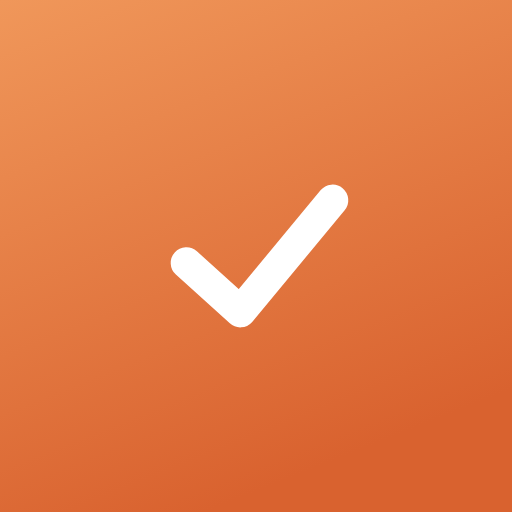
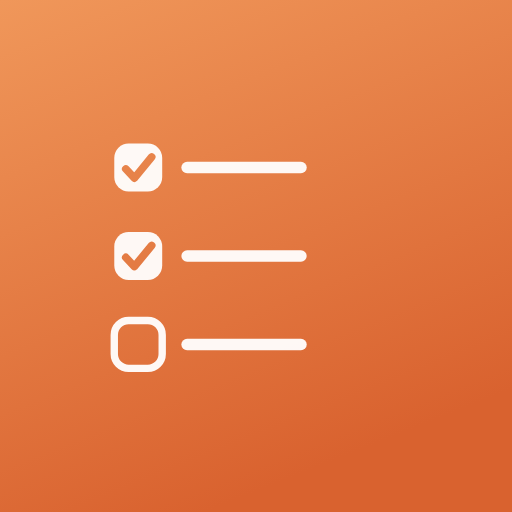
아이콘 재교체, "/날짜"·시간 자동 적용, 할 일 복사 기능 추가
1. 바로가기 아이콘을 체크마크 단독 디자인에서 체크리스트(할 일 3줄)
   모양으로 다시 교체
2. 할 일 추가/수정 모달에서 "/26.9.11", "14:00" 같은 명시적 표기는
   확인 없이 감지 즉시 자동으로 날짜/시간 필드에 반영되고 문구도
   자동으로 지워짐 (매주/내일처럼 애매할 수 있는 자연어 표기는 기존처럼
   클릭해서 적용하는 방식 유지)
3. 목록 안, 완료 탭 어디서든 할 일 항목 옆에 "복사" 버튼을 추가해서
   같은 할 일을 미완료 상태로 빠르게 복제 가능

Claude-Session: https://claude.ai/code/session_01N369WzuWM4VJZZyhSZKzDB

Changed region(s): [[0.1875, 0.3438, 0.6875, 0.75], [0.2188, 0.2812, 0.5938, 0.375]]

diff --git a/index.html b/index.html
@@ -713,6 +713,7 @@ function parseNaturalLanguageDate(raw) {
   let recurrence = null;
   let dueDate = null;
   let dueTime = null;
+  let explicitDate = false;
   let m;
 
   /* 시간 토큰: "14:00" 처럼 어디에 있든 시:분(24시간제)을 감지해요. */
@@ -721,22 +722,27 @@ function parseNaturalLanguageDate(raw) {
     text = text.replace(m[0], ' ');
   }
 
-  /* "/"로 시작하는 명시적 날짜 토큰: /오늘, /내일, /모레, /26.9.11, /9.11 */
+  /* "/"로 시작하는 명시적 날짜 토큰: /오늘, /내일, /모레, /26.9.11, /9.11
+     (시간 토큰과 마찬가지로 명시적인 표기이므로, 감지 즉시 자동 적용 + 자동 삭제 대상이에요.) */
   if ((m = text.match(/\s\/오늘\s/))) {
     dueDate = todayStr();
+    explicitDate = true;
     text = text.replace(m[0], ' ');
   } else if ((m = text.match(/\s\/내일\s/))) {
     const d = new Date(); d.setDate(d.getDate() + 1);
     dueDate = ymd(d);
+    explicitDate = true;
     text = text.replace(m[0], ' ');
   } else if ((m = text.match(/\s\/모레\s/))) {
     const d = new Date(); d.setDate(d.getDate() + 2);
     dueDate = ymd(d);
+    explicitDate = true;
     text = text.replace(m[0], ' ');
   } else if ((m = text.match(/\s\/(\d{2,4})\.(\d{1,2})\.(\d{1,2})\s/))) {
     let y = Number(m[1]);
     if (y < 100) y += 2000;
     dueDate = ymd(new Date(y, Number(m[2]) - 1, Number(m[3])));
+    explicitDate = true;
     text = text.replace(m[0], ' ');
   } else if ((m = text.match(/\s\/(\d{1,2})\.(\d{1,2})\s/))) {
     const mo = Number(m[1]), da = Number(m[2]);
@@ -744,6 +750,7 @@ function parseNaturalLanguageDate(raw) {
     let d = new Date(y0, mo - 1, da);
     if (ymd(d) < todayStr()) d = new Date(y0 + 1, mo - 1, da);
     dueDate = ymd(d);
+    explicitDate = true;
     text = text.replace(m[0], ' ');
   }
 
@@ -805,7 +812,7 @@ function parseNaturalLanguageDate(raw) {
     }
   }
 
-  return { title: text.replace(/\s+/g, ' ').trim(), dueDate, dueTime, recurrence };
+  return { title: text.replace(/\s+/g, ' ').trim(), dueDate, dueTime, explicitDate, recurrence };
 }
 
 /* 완료된 반복 할일은 다음 주기가 실제로 될 때까지 "완료" 상태로 목록에 남아있다가,
@@ -993,6 +1000,7 @@ function crossListTodoRowHtml(t) {
         <div class="todo-meta">${metaParts.join('')}</div>
       </div>
       <div class="todo-actions">
+        <button class="icon-btn" onclick="duplicateTodo('${t.id}')" title="복사" aria-label="복사">⧉</button>
         <button class="icon-btn" onclick="openTodoModal('${t.id}')" title="수정" aria-label="수정">✏</button>
       </div>
     </div>
@@ -1080,6 +1088,7 @@ function todoRowHtml(t, list) {
       <div class="todo-actions">
         <button class="icon-btn" onclick="openTodoDueQuick(event,'${t.id}')" title="기한 설정" aria-label="기한 설정">📅</button>
         ${!t.parentId ? `<button class="icon-btn" onclick="openTodoModal(null,'${list.id}','${t.id}')" title="하위 할일 추가" aria-label="하위 할일 추가">+</button>` : ''}
+        <button class="icon-btn" onclick="duplicateTodo('${t.id}')" title="복사" aria-label="복사">⧉</button>
         <button class="icon-btn" onclick="openTodoModal('${t.id}')" title="수정" aria-label="수정">✏</button>
         <button class="icon-btn danger" onclick="deleteTodo('${t.id}')" title="삭제" aria-label="삭제">🗑</button>
       </div>
@@ -1162,6 +1171,21 @@ function deleteTodo(id) {
   DATA.todos = DATA.todos.filter(t => !idsToDelete.has(t.id));
   saveData();
   renderTodos();
+}
+/* 완료된 할 일을 또 해야 할 때 등, 같은 할 일을 미완료 상태로 빠르게 복제해요. (하위 할일은 복사하지 않음) */
+function duplicateTodo(id) {
+  const t = DATA.todos.find(x => x.id === id);
+  if (!t) return;
+  const recurrence = t.recurrence ? JSON.parse(JSON.stringify(t.recurrence)) : null;
+  if (recurrence) recurrence.doneDates = [];
+  DATA.todos.push({
+    id: uid(), listId: t.listId, parentId: t.parentId, title: t.title, memo: t.memo || '',
+    dueDate: t.dueDate, dueTime: t.dueTime, recurrence, done: false, doneAt: null,
+    createdAt: new Date().toISOString(),
+  });
+  saveData();
+  renderTodos();
+  showToast('할 일을 복사했어요.', 'success', 2000);
 }
 function toggleTodoHideCompleted(listId) {
   const list = getTodoList(listId);
@@ -1267,7 +1291,7 @@ function openTodoModal(id, listId, parentId, presetDueDate) {
     </div>` : ''}
     <div class="field">
       <label class="field-lbl">할 일</label>
-      <input type="text" id="todo-title" oninput="onTodoTitleInput()" value="${escapeHtml(editing ? editing.title : '')}" placeholder="무엇을 해야 하나요? (예: 내일 우유 사기, 매주 월요일 청소)">
+      <input type="text" id="todo-title" oninput="onTodoTitleInput()" onblur="onTodoTitleBlur()" value="${escapeHtml(editing ? editing.title : '')}" placeholder="무엇을 해야 하나요? (예: 내일 우유 사기, 매주 월요일 청소)">
       <div class="todo-title-hint" id="todo-title-hint"></div>
     </div>
     <div class="field"><label class="field-lbl">메모</label><textarea id="todo-memo" placeholder="선택 사항">${escapeHtml(editing ? (editing.memo || '') : '')}</textarea></div>
@@ -1374,15 +1398,41 @@ function renderTodoDateChips() {
     : `<span class="form-note">선택된 날짜가 없어요.</span>`;
 }
 /* 제목 입력창에 "내일", "매주 월요일" 같은 문구가 보이면 감지해서 적용할지 물어봐요. */
+/* "/날짜"와 "시간(H:MM)"은 표기가 명확해서 물어보지 않고 자동 적용 + 문구 자동 삭제해요.
+   단, 타이핑 도중(예: "/26.9" 까지만 입력된 상태) 섣불리 잘라내면 안 되므로,
+   한 단어가 끝났다는 신호(뒤에 실제 공백이 입력됨)가 있을 때만 검사해요. */
+function applyExplicitTitleTokens(input) {
+  const endsWithSpace = /\s$/.test(input.value);
+  const parsed = parseNaturalLanguageDate(input.value);
+  if (parsed.explicitDate || parsed.dueTime) {
+    if (parsed.explicitDate) document.getElementById('todo-due').value = parsed.dueDate;
+    if (parsed.dueTime) document.getElementById('todo-due-time').value = parsed.dueTime;
+    /* 방금 사용자가 입력한 공백(다음 단어를 이어 타이핑하기 위한 구분자)을 지우지 않고 살려둬요. */
+    input.value = parsed.title + (endsWithSpace && parsed.title ? ' ' : '');
+    return true;
+  }
+  return false;
+}
+function onTodoTitleBlur() {
+  const input = document.getElementById('todo-title');
+  if (input) applyExplicitTitleTokens(input);
+}
 function onTodoTitleInput() {
   const input = document.getElementById('todo-title');
   const hint = document.getElementById('todo-title-hint');
   if (!input || !hint) return;
   const isSub = !!(state._todoModal && state._todoModal.parentId);
+  if (/\s$/.test(input.value) && applyExplicitTitleTokens(input)) {
+    onTodoTitleInput();
+    return;
+  }
   const parsed = parseNaturalLanguageDate(input.value);
   if (isSub && parsed.recurrence) { hint.style.display = 'none'; return; }
-  if (parsed.dueDate || parsed.dueTime || parsed.recurrence) {
-    const label = parsed.recurrence ? todoRecurrenceLabel(parsed.recurrence) : [parsed.dueDate ? `📅 ${parsed.dueDate}` : '', parsed.dueTime ? `🕐 ${parsed.dueTime}` : ''].filter(Boolean).join(' ');
+  /* "/날짜"나 시간처럼 명시적인 표기만 감지된 경우엔 굳이 확인을 묻지 않아요.
+     (스페이스를 마저 입력하거나 다른 곳을 클릭하면 자동으로 적용/삭제돼요.) */
+  const implicitDate = parsed.dueDate && !parsed.explicitDate;
+  if (implicitDate || parsed.recurrence) {
+    const label = parsed.recurrence ? todoRecurrenceLabel(parsed.recurrence) : `📅 ${parsed.dueDate}`;
     hint.style.display = 'block';
     hint.innerHTML = `${label} 감지됨 · <span class="usage-link" onclick="applyParsedTitleDate()">적용하고 문구 지우기</span>`;
   } else {
@@ -1409,6 +1459,7 @@ function applyParsedTitleDate() {
   document.getElementById('todo-title-hint').style.display = 'none';
 }
 function submitTodo(id) {
+  applyExplicitTitleTokens(document.getElementById('todo-title'));
   const title = document.getElementById('todo-title').value.trim();
   if (!title) return showToast('할 일을 입력해주세요.', 'error');
   const memo = document.getElementById('todo-memo').value.trim();

diff --git a/sw.js b/sw.js
@@ -2,7 +2,7 @@
 // 앱 껍데기(HTML/아이콘)만 최소한으로 캐싱해서 "홈 화면에서 바로 열리는" 경험을 위한 용도예요.
 // 할 일 데이터는 이 기기의 localStorage와 (로그인 시) 클라우드에 저장돼요.
 
-const CACHE_NAME = 'todo-app-shell-v2';
+const CACHE_NAME = 'todo-app-shell-v3';
 const SHELL_FILES = [
   './index.html',
   './manifest.json',
